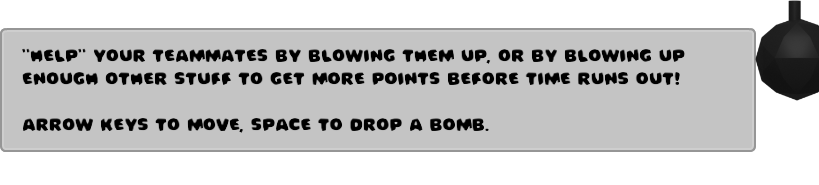
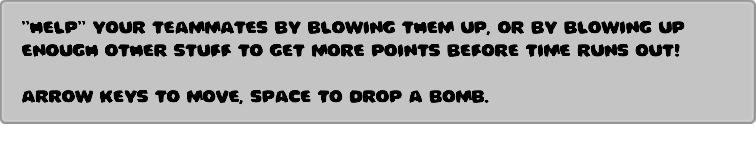
Adding player name support

diff --git a/server/src/state/Player.ts b/server/src/state/Player.ts
@@ -1,19 +1,20 @@
-import { Schema, type } from '@colyseus/schema';
-import {Vector2} from "./primitives";
+import { Schema, type } from "@colyseus/schema";
+import { Vector2 } from "./primitives";
 
 export class Player extends Schema {
-    @type("string") id: string;
-    @type(Vector2) position: Vector2;
-    @type('float32') rotation: number;
-    @type('boolean') isReady = false;
-    @type('int8') index = 0;
-    @type('boolean') isHost = false;
-    @type('boolean') moving = false;
-    @type('int32') score = 0;
-    @type('int8') bombsAllowed: number = 1;
-    @type('int8') bombLength: number = 1;
+	@type("string") id: string;
+	@type(Vector2) position: Vector2;
+	@type("string") name: string;
+	@type("float32") rotation: number;
+	@type("boolean") isReady = false;
+	@type("int8") index = 0;
+	@type("boolean") isHost = false;
+	@type("boolean") moving = false;
+	@type("int32") score = 0;
+	@type("int8") bombsAllowed: number = 1;
+	@type("int8") bombLength: number = 1;
 
-    bombDelay: number = 1;
-    bombDelayElapsed: number = 0;
-    bombsUsed: number = 0;
+	bombDelay: number = 1;
+	bombDelayElapsed: number = 0;
+	bombsUsed: number = 0;
 }

diff --git a/client/src/scenes/Lobby.ts b/client/src/scenes/Lobby.ts
@@ -68,7 +68,7 @@ export class Lobby extends Scene {
 		this.addGameObject(logoSprite, 1);
 
 		const instructionsSprite = sprite(engine, instructions);
-		positionSpriteOnCanvas(engine, instructionsSprite, 142, 407, 839, 185);
+		positionSpriteOnCanvas(engine, instructionsSprite, 142, 435, 756, 147);
 		this.addGameObject(instructionsSprite, 2);
 
 		const waiting = sprite(engine, waitingForPlayers);
@@ -107,7 +107,7 @@ export class Lobby extends Scene {
 			);
 			preview.id = `preview-${player.id}`;
 
-			const playerName = playerText("rorticus");
+			const playerName = playerText(player.name);
 			const name = sprite(engine, playerName);
 			positionSpriteOnCanvas(
 				engine,

diff --git a/client/src/state/Player.ts b/client/src/state/Player.ts
@@ -11,6 +11,7 @@ import { Vector2 } from "./Vector2"
 export class Player extends Schema {
     @type("string") public id: string;
     @type(Vector2) public position: Vector2 = new Vector2();
+    @type("string") public name: string;
     @type("float32") public rotation: number;
     @type("boolean") public isReady: boolean;
     @type("int8") public index: number;

diff --git a/client/src/index.ts b/client/src/index.ts
@@ -32,7 +32,7 @@ async function main() {
 	engine.start();
 
 	client
-		.joinOrCreate<GameState>("nadeit", { sessionId: "123" })
+		.joinOrCreate<GameState>("nadeit", { sessionId: "123", name: 'Unnamed' })
 		.then((room) => {
 			console.log("sessionId", room.sessionId);
 

diff --git a/server/src/NadeItAaron.ts b/server/src/NadeItAaron.ts
@@ -133,6 +133,7 @@ export class NadeItAaron extends Room<GameState> {
 		player.isReady = false;
 		player.rotation = 0;
 		player.position = p;
+		player.name = options.name;
 
 		player.isHost = Object.keys(this.state.players).length === 0;
 
